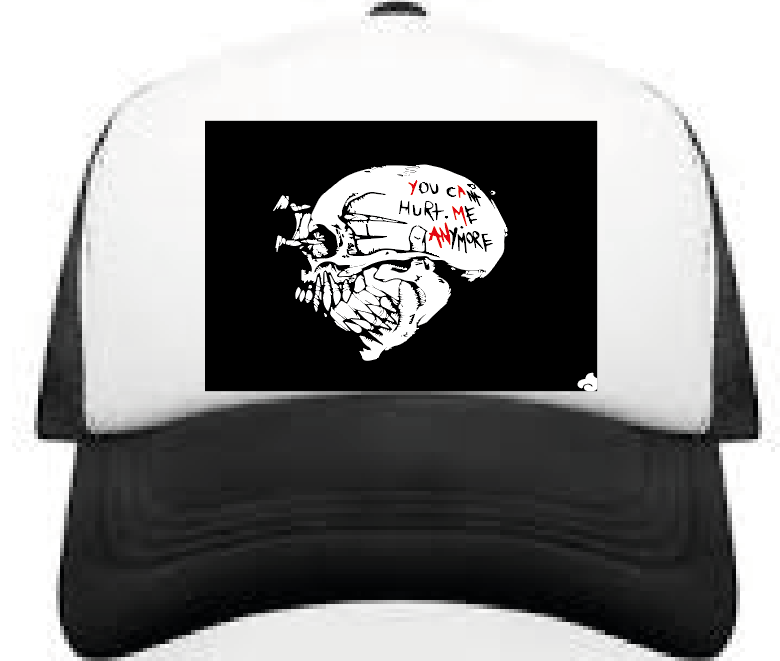
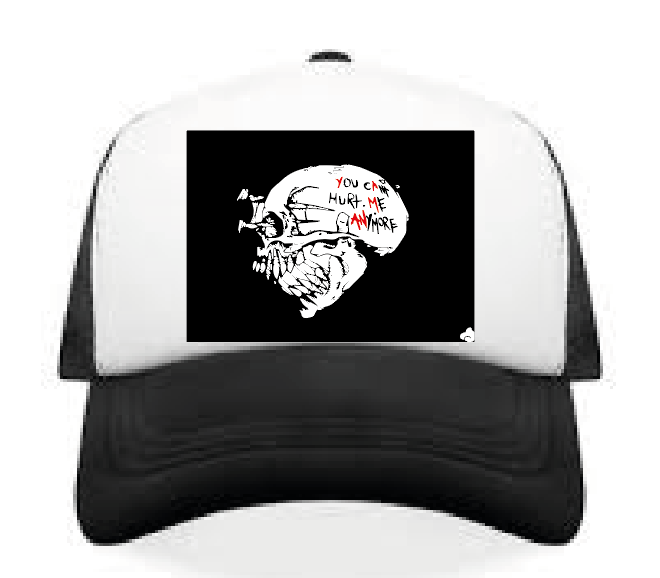
modified:   public/images/toppers/2.png 	new file:   public/images/toppers/3.png 	modified:   src/data/products-details.tsx

diff --git a/src/data/products-details.tsx b/src/data/products-details.tsx
@@ -210,28 +210,22 @@ export const brandedHatsToppers:{id:number,name:string,price:number,description:
     },
     {
         id:2,
-        name:"Savannah",
-        price:1000,
-        description:"Lorem ipsum dolor sit amet, consectetur adipiscing elit, sed do eiusmod tempor incididunt ut labore et dolore magna aliqua. Ut enim ad minim veniam, quis nostrud exercitation ullamco laboris nisi ut aliquip ex ea commodo consequat.",
-        thumbnail:"https://img.freepik.com/free-photo/inspirational-quote-written-mug_23-2149261735.jpg?t=st=1715585905~exp=1715589505~hmac=3178de1027b125fdcce96bb423244f7edca047f6c24c9812badb895a20f5abd6&w=900",
+        name:"You can't hurt me anymore",
+        price:950,
+        description:"This empowering topper is designed for those who have overcome challenges and emerged stronger. Crafted with premium materials, it stands as a powerful statement of resilience and self-worth. Ideal for personal spaces, office desks, or as a meaningful gift, this topper serves as a daily reminder of your strength and independence. Let it symbolize your journey of healing and growth, and inspire you to face the future with confidence and courage.",
+        thumbnail:"/images/toppers/2.png",
         images:[
-             "https://images.pexels.com/photos/18868628/pexels-photo-18868628/free-photo-of-mugs-with-logo.jpeg?auto=compress&cs=tinysrgb&w=1260&h=750&dpr=2",
-             "https://img.freepik.com/premium-vector/creative-abstract-background_17005-111.jpg?w=740",
-             "https://images.pexels.com/photos/18868628/pexels-photo-18868628/free-photo-of-mugs-with-logo.jpeg?auto=compress&cs=tinysrgb&w=1260&h=750&dpr=2",
-             "https://images.pexels.com/photos/18868628/pexels-photo-18868628/free-photo-of-mugs-with-logo.jpeg?auto=compress&cs=tinysrgb&w=1260&h=750&dpr=2"
+            "/images/toppers/2.png",
         ]
     },
     {
         id:3,
         name:"Nairobi skyline",
-        price:1000,
-        description:"Lorem ipsum dolor sit amet, consectetur adipiscing elit, sed do eiusmod tempor incididunt ut labore et dolore magna aliqua. Ut enim ad minim veniam, quis nostrud exercitation ullamco laboris nisi ut aliquip ex ea commodo consequat.",
-        thumbnail:"https://img.freepik.com/free-photo/inspirational-quote-written-mug_23-2149261735.jpg?t=st=1715585905~exp=1715589505~hmac=3178de1027b125fdcce96bb423244f7edca047f6c24c9812badb895a20f5abd6&w=900",
+        price:850,
+        description:"Proud of your city? Showcase your love for Nairobi with this stunning skyline topper. Perfect for adding a touch of urban elegance to your space, this topper captures the vibrant essence of Nairobi. Ideal for your desk, bookshelf, or as a unique gift, let this topper be a daily reminder of the city's dynamic spirit and beauty. Celebrate Nairobi in style!",
+        thumbnail: "/images/toppers/3.png",
         images:[
-             "https://images.pexels.com/photos/18868628/pexels-photo-18868628/free-photo-of-mugs-with-logo.jpeg?auto=compress&cs=tinysrgb&w=1260&h=750&dpr=2",
-             "https://img.freepik.com/premium-vector/creative-abstract-background_17005-111.jpg?w=740",
-             "https://images.pexels.com/photos/18868628/pexels-photo-18868628/free-photo-of-mugs-with-logo.jpeg?auto=compress&cs=tinysrgb&w=1260&h=750&dpr=2",
-             "https://images.pexels.com/photos/18868628/pexels-photo-18868628/free-photo-of-mugs-with-logo.jpeg?auto=compress&cs=tinysrgb&w=1260&h=750&dpr=2"
+            "/images/toppers/3.png",
         ]
     },
     {
